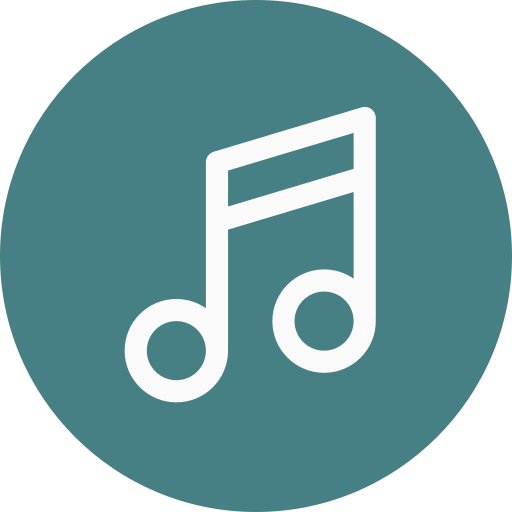
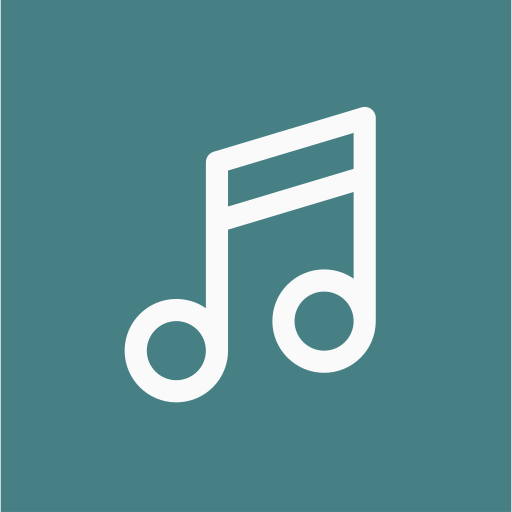
Improvements for mobile devices (Version 1.3.2)
- Updated manifest.json so that the website works better if installed as a PWA on Android
   * The application now occupies all the screen of the user, and no default orientation is specified
   * Fixed a typo in the icon path that made the manifest invalid
- Updated icon so that it appears more centered
  * The favicon now hasn't a background color
- Remove highlight color so that buttons aren't highlighed of blue when long-pressed on Android
- The `box-shadow` added in fullscreen mode is now displayed correctly
- Added an option in the Settings to disable the usage of the File System API
   * Added since granting always access to the files on Android might be an hassle
- Current time and duration are now displayed correctly when the fullscreen player while using the Web Audio API for media decoding

diff --git a/src/lib/AudioPlayer/FullscreenAudioPlayer.svelte b/src/lib/AudioPlayer/FullscreenAudioPlayer.svelte
@@ -337,7 +337,7 @@
 
 </script>
 
-<div class="mainBodyHover opacity ensureClickableElements" bind:this={container} style="z-index: 10; opacity: 1">
+<div class="mainBodyHover opacity ensureClickableElements" bind:this={container} style="z-index: 10; opacity: 1;">
     <div
         bind:this={albumArtBackground}
         class="backgroundImage opacity"
@@ -348,7 +348,7 @@
     <div style="margin: 5px; position: fixed; z-index: 999" bind:this={backButtonContainer}>
         <BackButton></BackButton>
     </div>
-    <div class="flex wrap gap forceMaxHeight" style="padding: 15px; height: calc(100% - 30px); gap: 25px;">
+    <div class="flex wrap gap forceMaxHeight" style="height: calc(100% - 30px); gap: 25px; padding: 15px 0px;">
             <div
                 class="flex adaptiveFlex wcenter adaptiveHcenter gap opacity"
                 style="flex-direction: column; opacity: 1;"
@@ -411,7 +411,7 @@
                         alt={lang("Album art")}
                     />
                 </div>
-                <div class="opacity" bind:this={infoContainer}>
+                <div class="opacity" bind:this={infoContainer} style="padding: 10px;">
                     <h2 bind:this={songTitle}>
                         {AudioManager.currentMetadata?.metadata.title}
                     </h2>
@@ -431,7 +431,7 @@
                             ontouchstart={() => (blockProgressUpdate = true)}
                             ontouchend={() => (blockProgressUpdate = false)}
                             defaultValue={AudioManager.audioInformation?.currentTime}
-                            max={AudioManager.audio?.duration}
+                            max={AudioManager.audioInformation.duration}
                             onchange={() => {
                             }}
                             bind:this={progress}
@@ -441,8 +441,8 @@
                             }}
                             step="0.001"
                         />
-                        <span style="float: left;" bind:this={secondsLabel}>{ConvertSecondsInTimestamp(AudioManager.audio?.currentTime ?? 0)}</span>
-                        <span style="float: right" bind:this={durationLabel}>{ConvertSecondsInTimestamp(AudioManager.audio?.duration ?? 0)}</span>
+                        <span style="float: left;" bind:this={secondsLabel}>{ConvertSecondsInTimestamp(AudioManager.audioInformation.currentTime ?? 0)}</span>
+                        <span style="float: right" bind:this={durationLabel}>{ConvertSecondsInTimestamp(AudioManager.audioInformation.duration ?? 0)}</span>
                     </div><br>
                 <div class="flex wcenter gap">
                     <button class="emptyButton" title={lang("Enable/disable shuffle")} onclick={(e) => {
@@ -523,7 +523,7 @@
         </div>
     </div>
     {#if (availableLyrics && showLyricsPlayer) || showQueue}
-        <div bind:this={rightDivContainer} class="opacity" out:fade={{duration: 200, easing: cubicInOut}} in:fade={{duration: 200, easing: cubicInOut}}>
+        <div bind:this={rightDivContainer} class="opacity" style="padding: 10px;" out:fade={{duration: 200, easing: cubicInOut}} in:fade={{duration: 200, easing: cubicInOut}}>
                     {#if availableLyrics && showLyricsPlayer}
                     <div>
                         {#key currentLyricsKey}

diff --git a/index.html b/index.html
@@ -2,7 +2,7 @@
 <html lang="en">
   <head>
     <meta charset="UTF-8" />
-    <link rel="icon" type="image/svg+xml" href="./icon.svg" />
+    <link rel="icon" type="image/svg+xml" href="./icon-empty.svg" />
     <meta name="viewport" content="width=device-width, initial-scale=1.0, viewport-fit=cover" />
     <meta name="mobile-web-app-capable" content="yes">
     <meta name="apple-mobile-web-app-capable" content="yes">
@@ -22,7 +22,7 @@
         params.delete("appSection");
         history.replaceState("", "", `./#${params.toString()}`);
       }
-      window.musicPlayerVersion = "1.3.1";
+      window.musicPlayerVersion = "1.3.2";
       (async () => {
         const result = await navigator.serviceWorker.register('./service-worker.js');
         if (navigator.onLine) await result.update();

diff --git a/src/ts/Database/UploadSongs.ts b/src/ts/Database/UploadSongs.ts
@@ -6,6 +6,7 @@ import ParseLrcFiles from "../DataFetcher/ParseLrcFiles";
 import type { MetadataSource, PossibleSortingOptions } from "../Player/PlayerInterfaces";
 import SortAlbumTracks from "./SortAlbumTracks";
 import GetNewItemInMetadataListPosition from "../DataFetcher/AddItemToMetadataList";
+import Settings from "../Settings";
 
 interface FileExplorer {
     name: string,
@@ -39,6 +40,7 @@ declare global {
         queryPermission: ({ mode }: { mode: "read" | "write" | "readwrite" }) => Promise<string>
     }
     interface FileSystemDirectoryHandle {
+        // @ts-ignore
         values: () => FileSystemDirectoryHandleAsyncIterator<FileSystemHandle>
     }
 }
@@ -150,7 +152,7 @@ export async function UploadSongs({ database, pickFolder, metadataToUpdate }: Up
         input.click();
     }
     // We'll try using the File System API if possible
-    if (typeof window.showOpenFilePicker !== "undefined") {
+    if (typeof window.showOpenFilePicker !== "undefined" && Settings.useFSApi) {
         /**
          * A list of all the fetched files
          */

diff --git a/src/app.css b/src/app.css
@@ -59,6 +59,9 @@ main {
   flex: 1
 }
 
+*::selection {
+  background: transparent;
+}
 
 .emptyButton {
   appearance: none;

diff --git a/src/lib/Dialogs/Settings.svelte b/src/lib/Dialogs/Settings.svelte
@@ -222,6 +222,9 @@
     </Card><br>
     <Card secondCard={true}>
         <h4>{lang("Application size")}:</h4>
+        <label class="flex hcenter gap">
+            <input type="checkbox" bind:checked={Settings.useFSApi}>{lang("Avoid copying the audio file in the database if possible. If enabled, the browser might ask you the permission before playing an audio file.")}
+        </label><br>
         <p>{lang("The application is using")} {navigatorQuota} megabytes. {lang("If you're running low on memory, you can use the following buttons to save space. Note that the website will automatically refresh at the end of the process")}.</p>
         <div class="flex hcenter gap wrap">
             <button class="btn" style="flex: 1 0 250px" onclick={() => deleteAllDbEntries(["albumArt"])}>{lang("Delete all album arts")}</button>

diff --git a/src/ts/Settings.ts b/src/ts/Settings.ts
@@ -33,7 +33,8 @@ let obj = {
         seconds: 0,
         isExponential: true,
         exponential: -4
-    }
+    },
+    useFSApi: true
 }
 
 

diff --git a/src/ts/SvelteComponentsHelpers/Language.ts b/src/ts/SvelteComponentsHelpers/Language.ts
@@ -283,7 +283,8 @@ const availableTranslations = new Map<string, TranslationProps>([
     ["Pick a preset", {it: "Seleziona un preset"}],
     ["Show less slider controls", {it: "Mostra meno opzioni"}],
     ["Pick a name for the new preset", {it: "Scegli un nome per il nuovo preset"}],
-    ["Save as custom preset", {it: "Salva come preset personalizzato"}]
+    ["Save as custom preset", {it: "Salva come preset personalizzato"}],
+    ["Avoid copying the audio file in the database if possible. If enabled, the browser might ask you the permission before playing an audio file.", {it: "Evita di copiare il file audio nel database se possibile. Se quest'opzione è abilitata, il browser potrebbe chiedere l'autorizzazione prima di riprodurre un file."}]
 ]);
 
 /**

diff --git a/public/service-worker.js b/public/service-worker.js
@@ -3,6 +3,8 @@ const filestoCache = [
     './',
     './index.html',
     './icon.svg',
+    './icon-empty.svg',
+    './icon-round.svg',
     './icon.png',
     './manifest.json',
     './assets/index.css',

diff --git a/src/lib/Header.svelte b/src/lib/Header.svelte
@@ -4,7 +4,7 @@
 </script>
 <header>
     <div class="flex hcenter gap">
-        <img alt="Logo" src="./icon.svg" style="width: 64px; height: 64px">
+        <img alt="Logo" src="./icon.svg" style="width: 64px; height: 64px; border-radius: 50%">
         <h1>MusicPlay</h1>
     </div>
     <p>{lang("Play and view your local library from your browser")}</p>